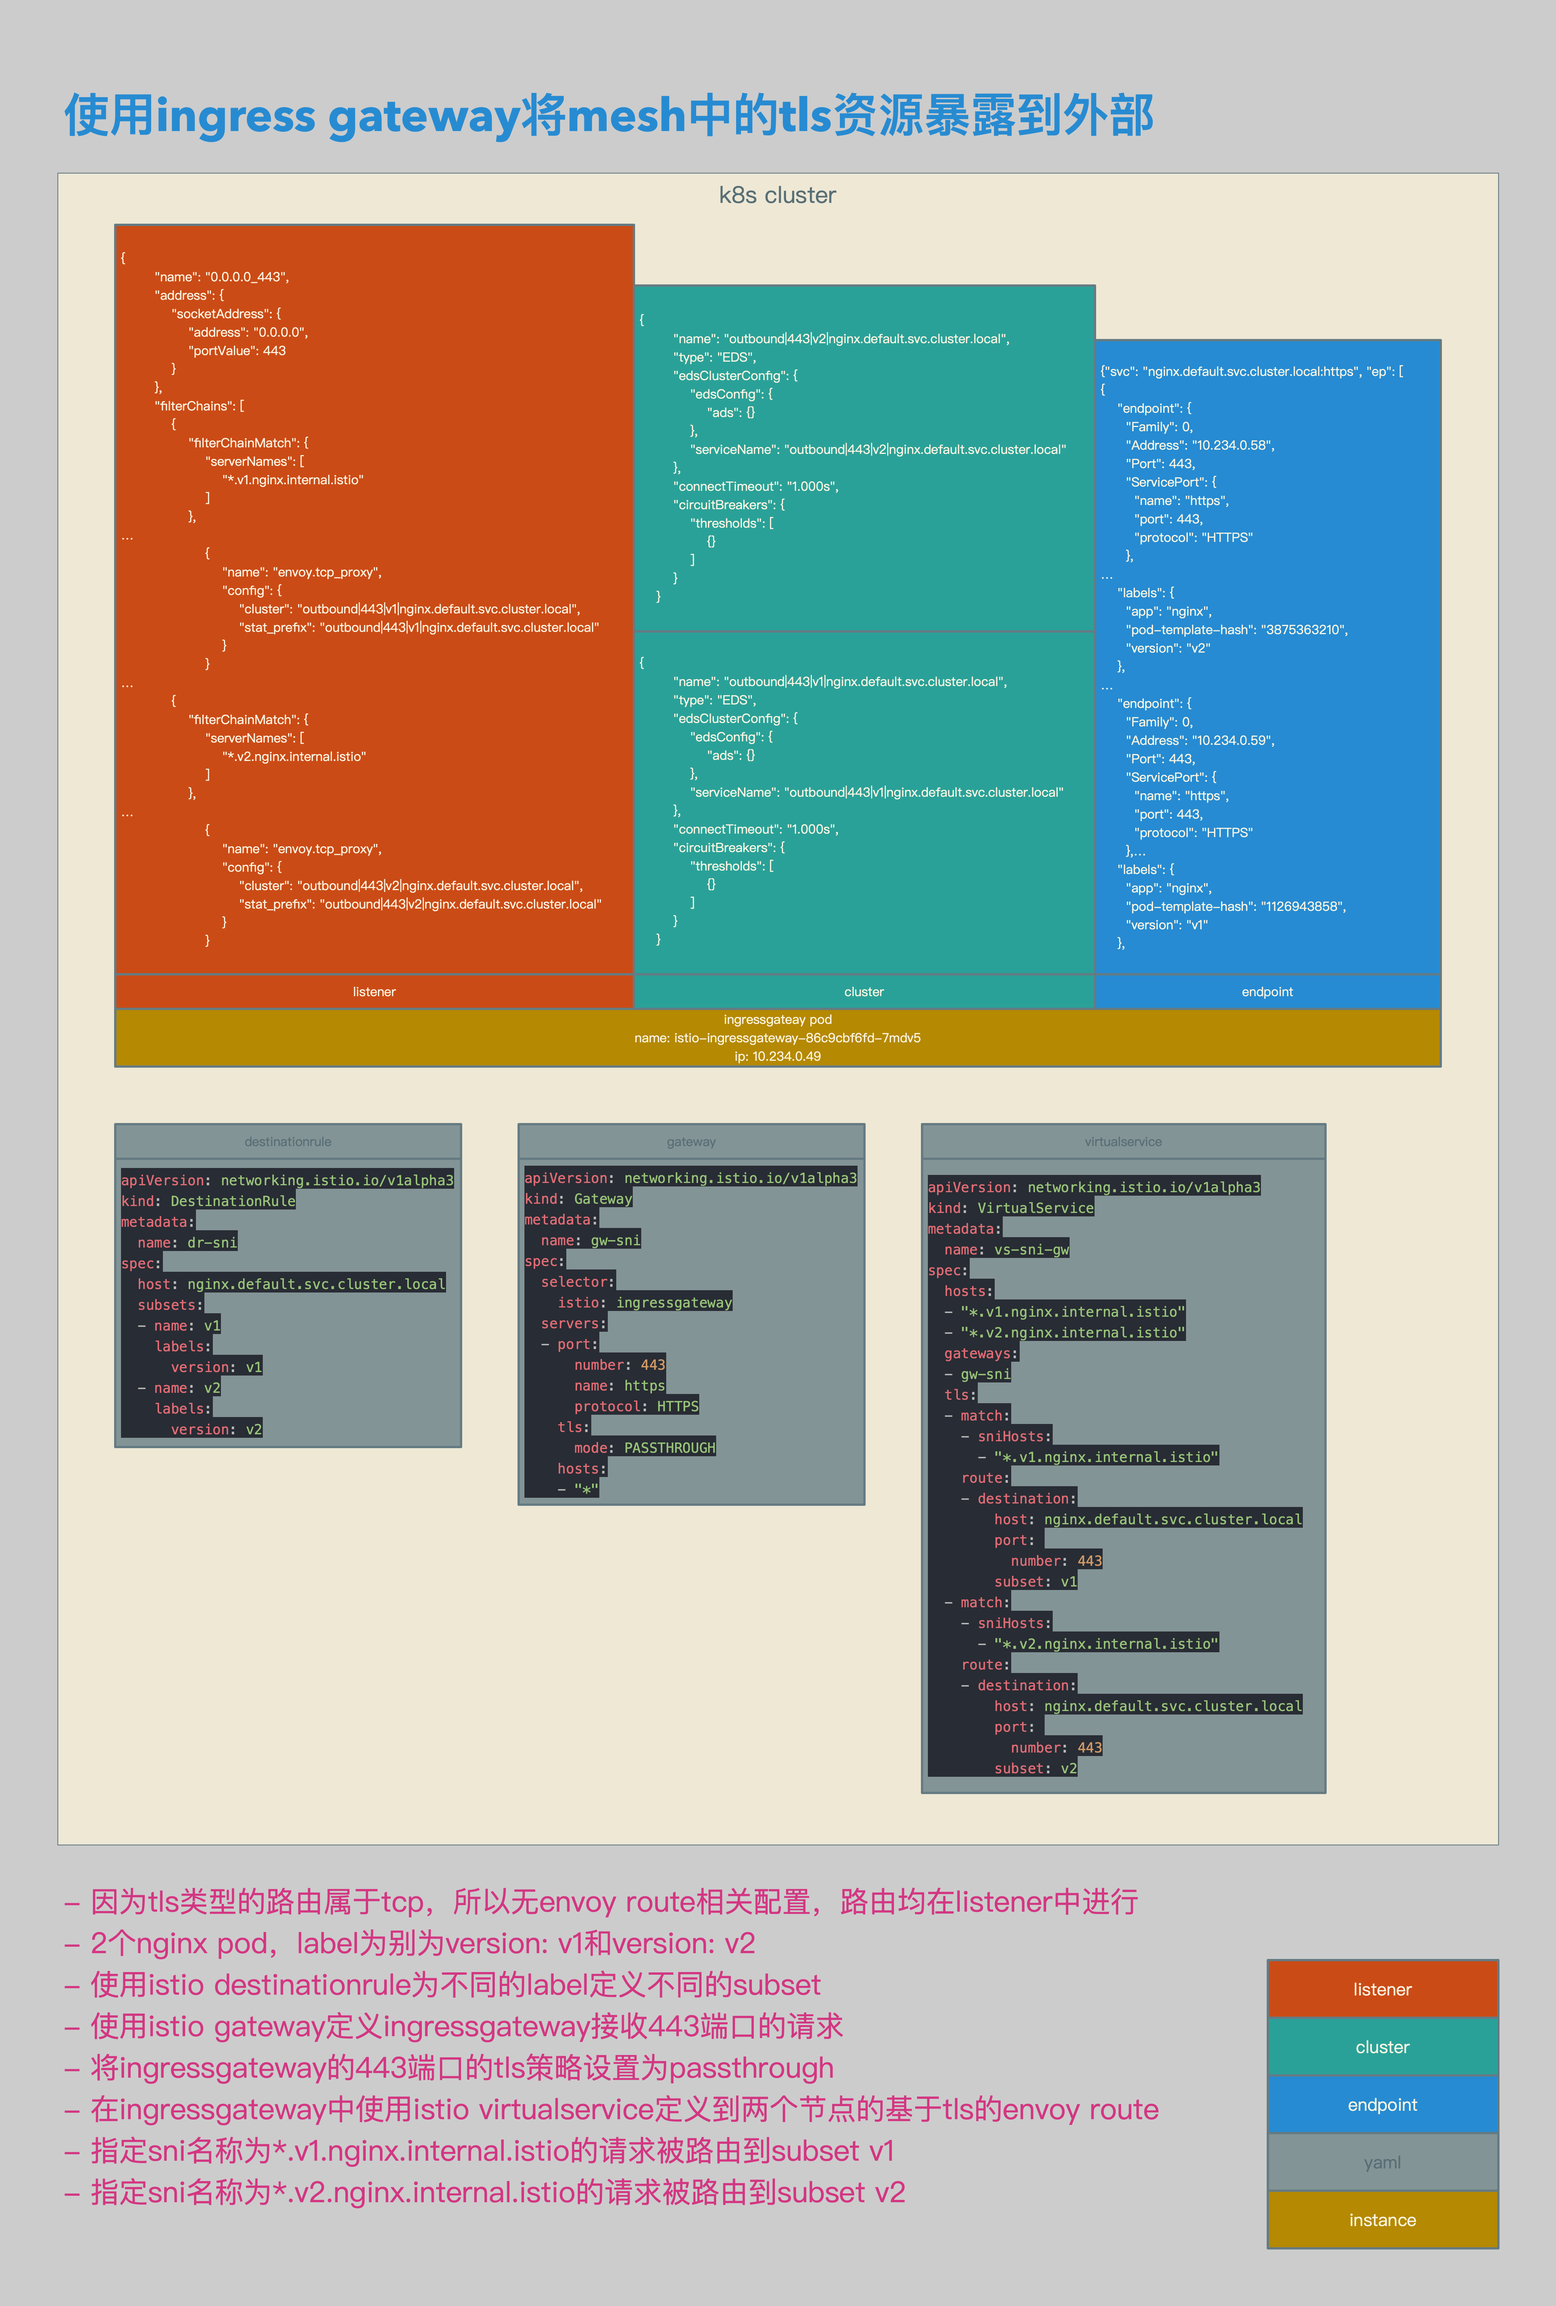
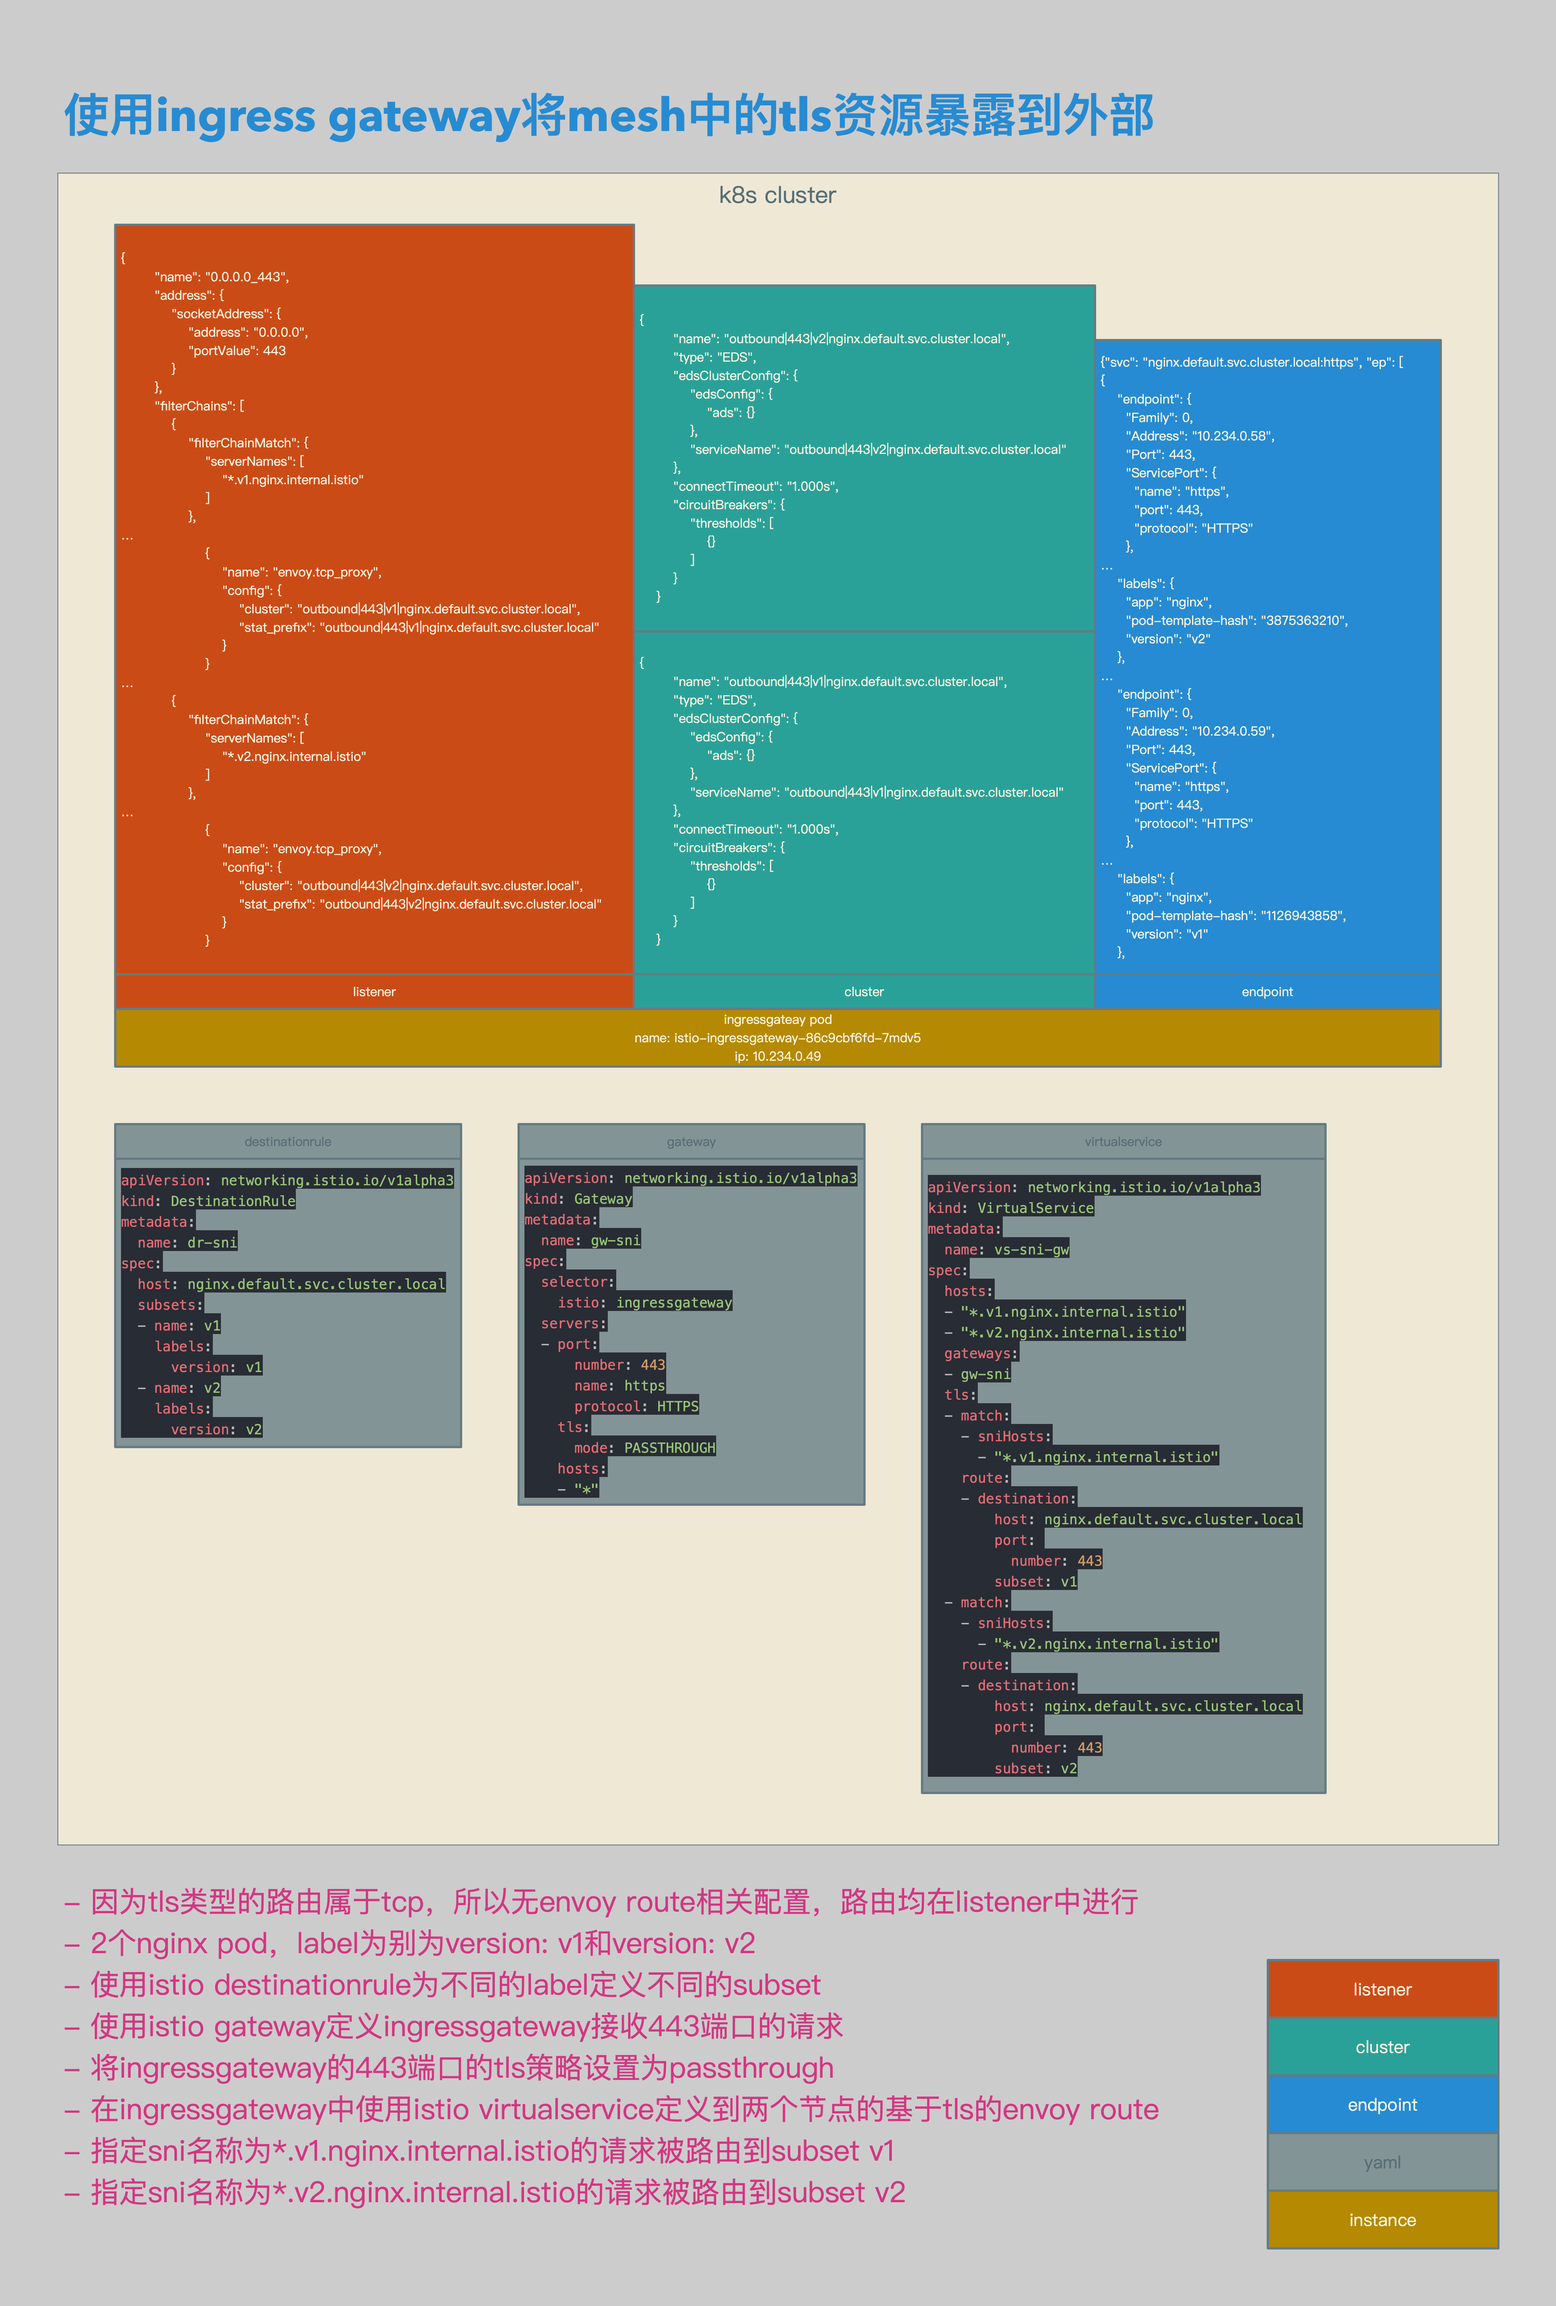
updated.

diff --git a/control-tls-traffic-with-snihosts-in-istio.md b/control-tls-traffic-with-snihosts-in-istio.md
@@ -373,7 +373,8 @@ spec:
         "name": "https",
         "port": 443,
         "protocol": "HTTPS"
-      },…
+      },
+…
     "labels": {
       "app": "nginx",
       "pod-template-hash": "1126943858",
